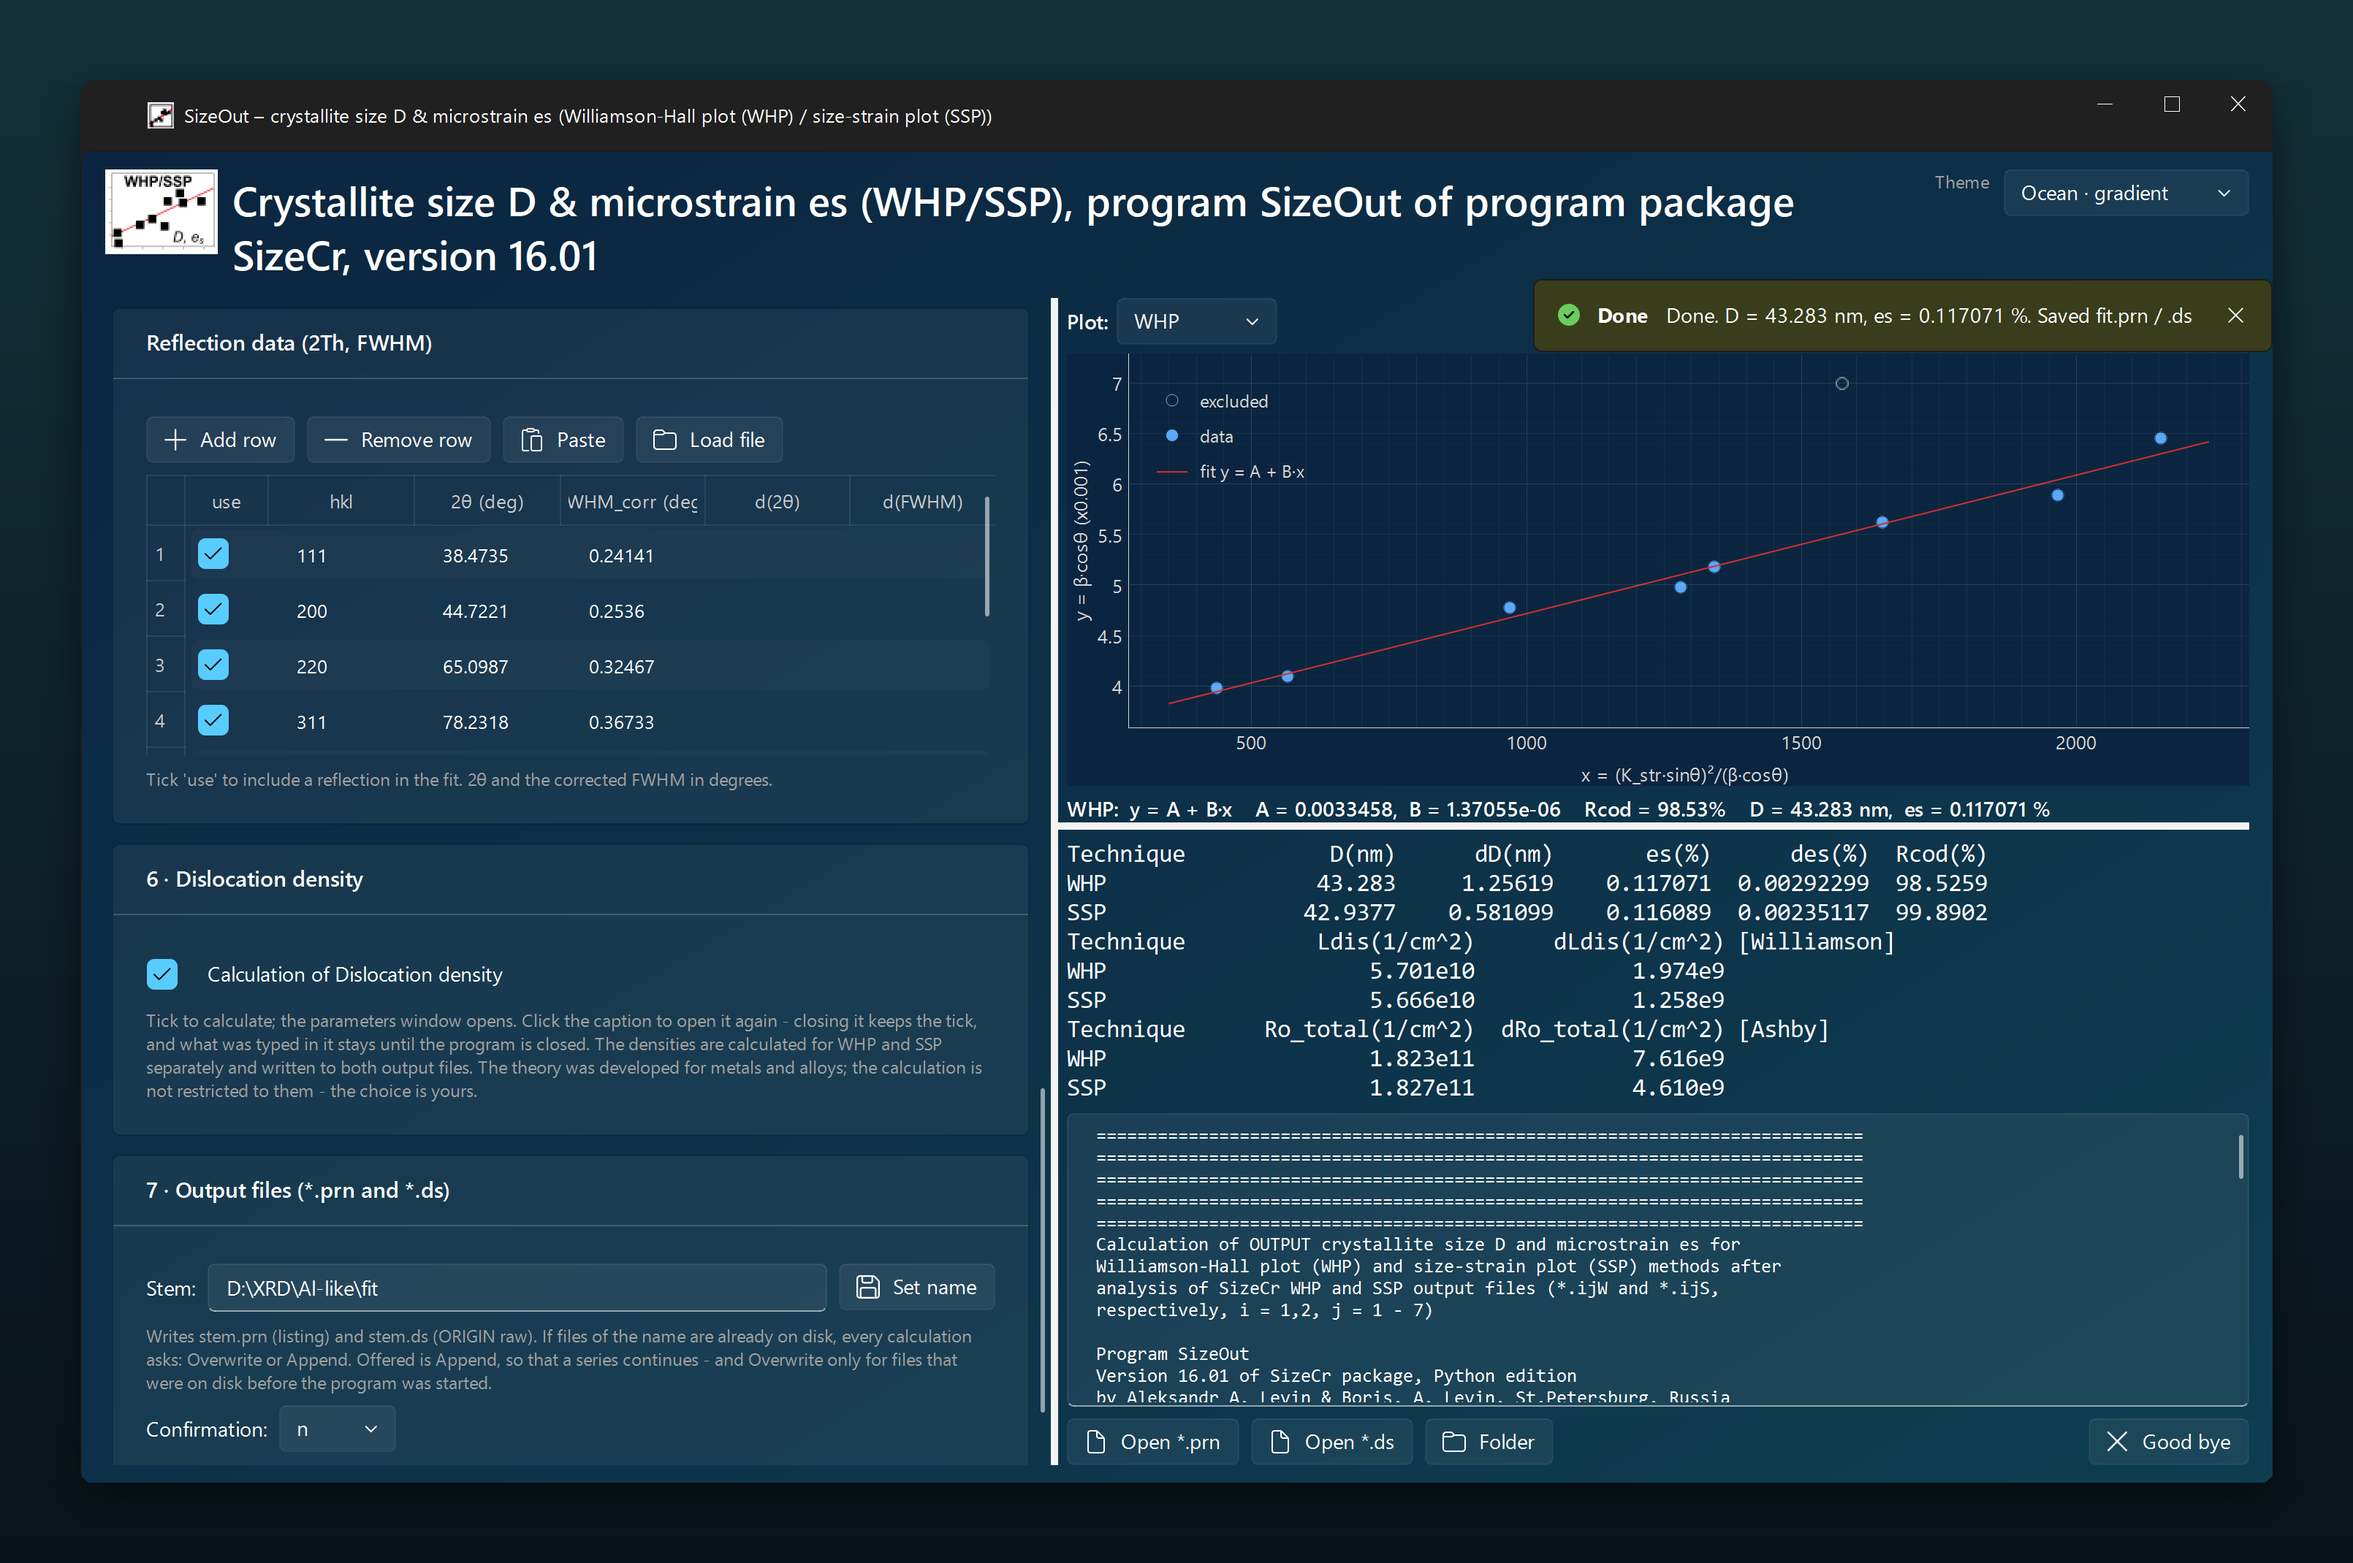
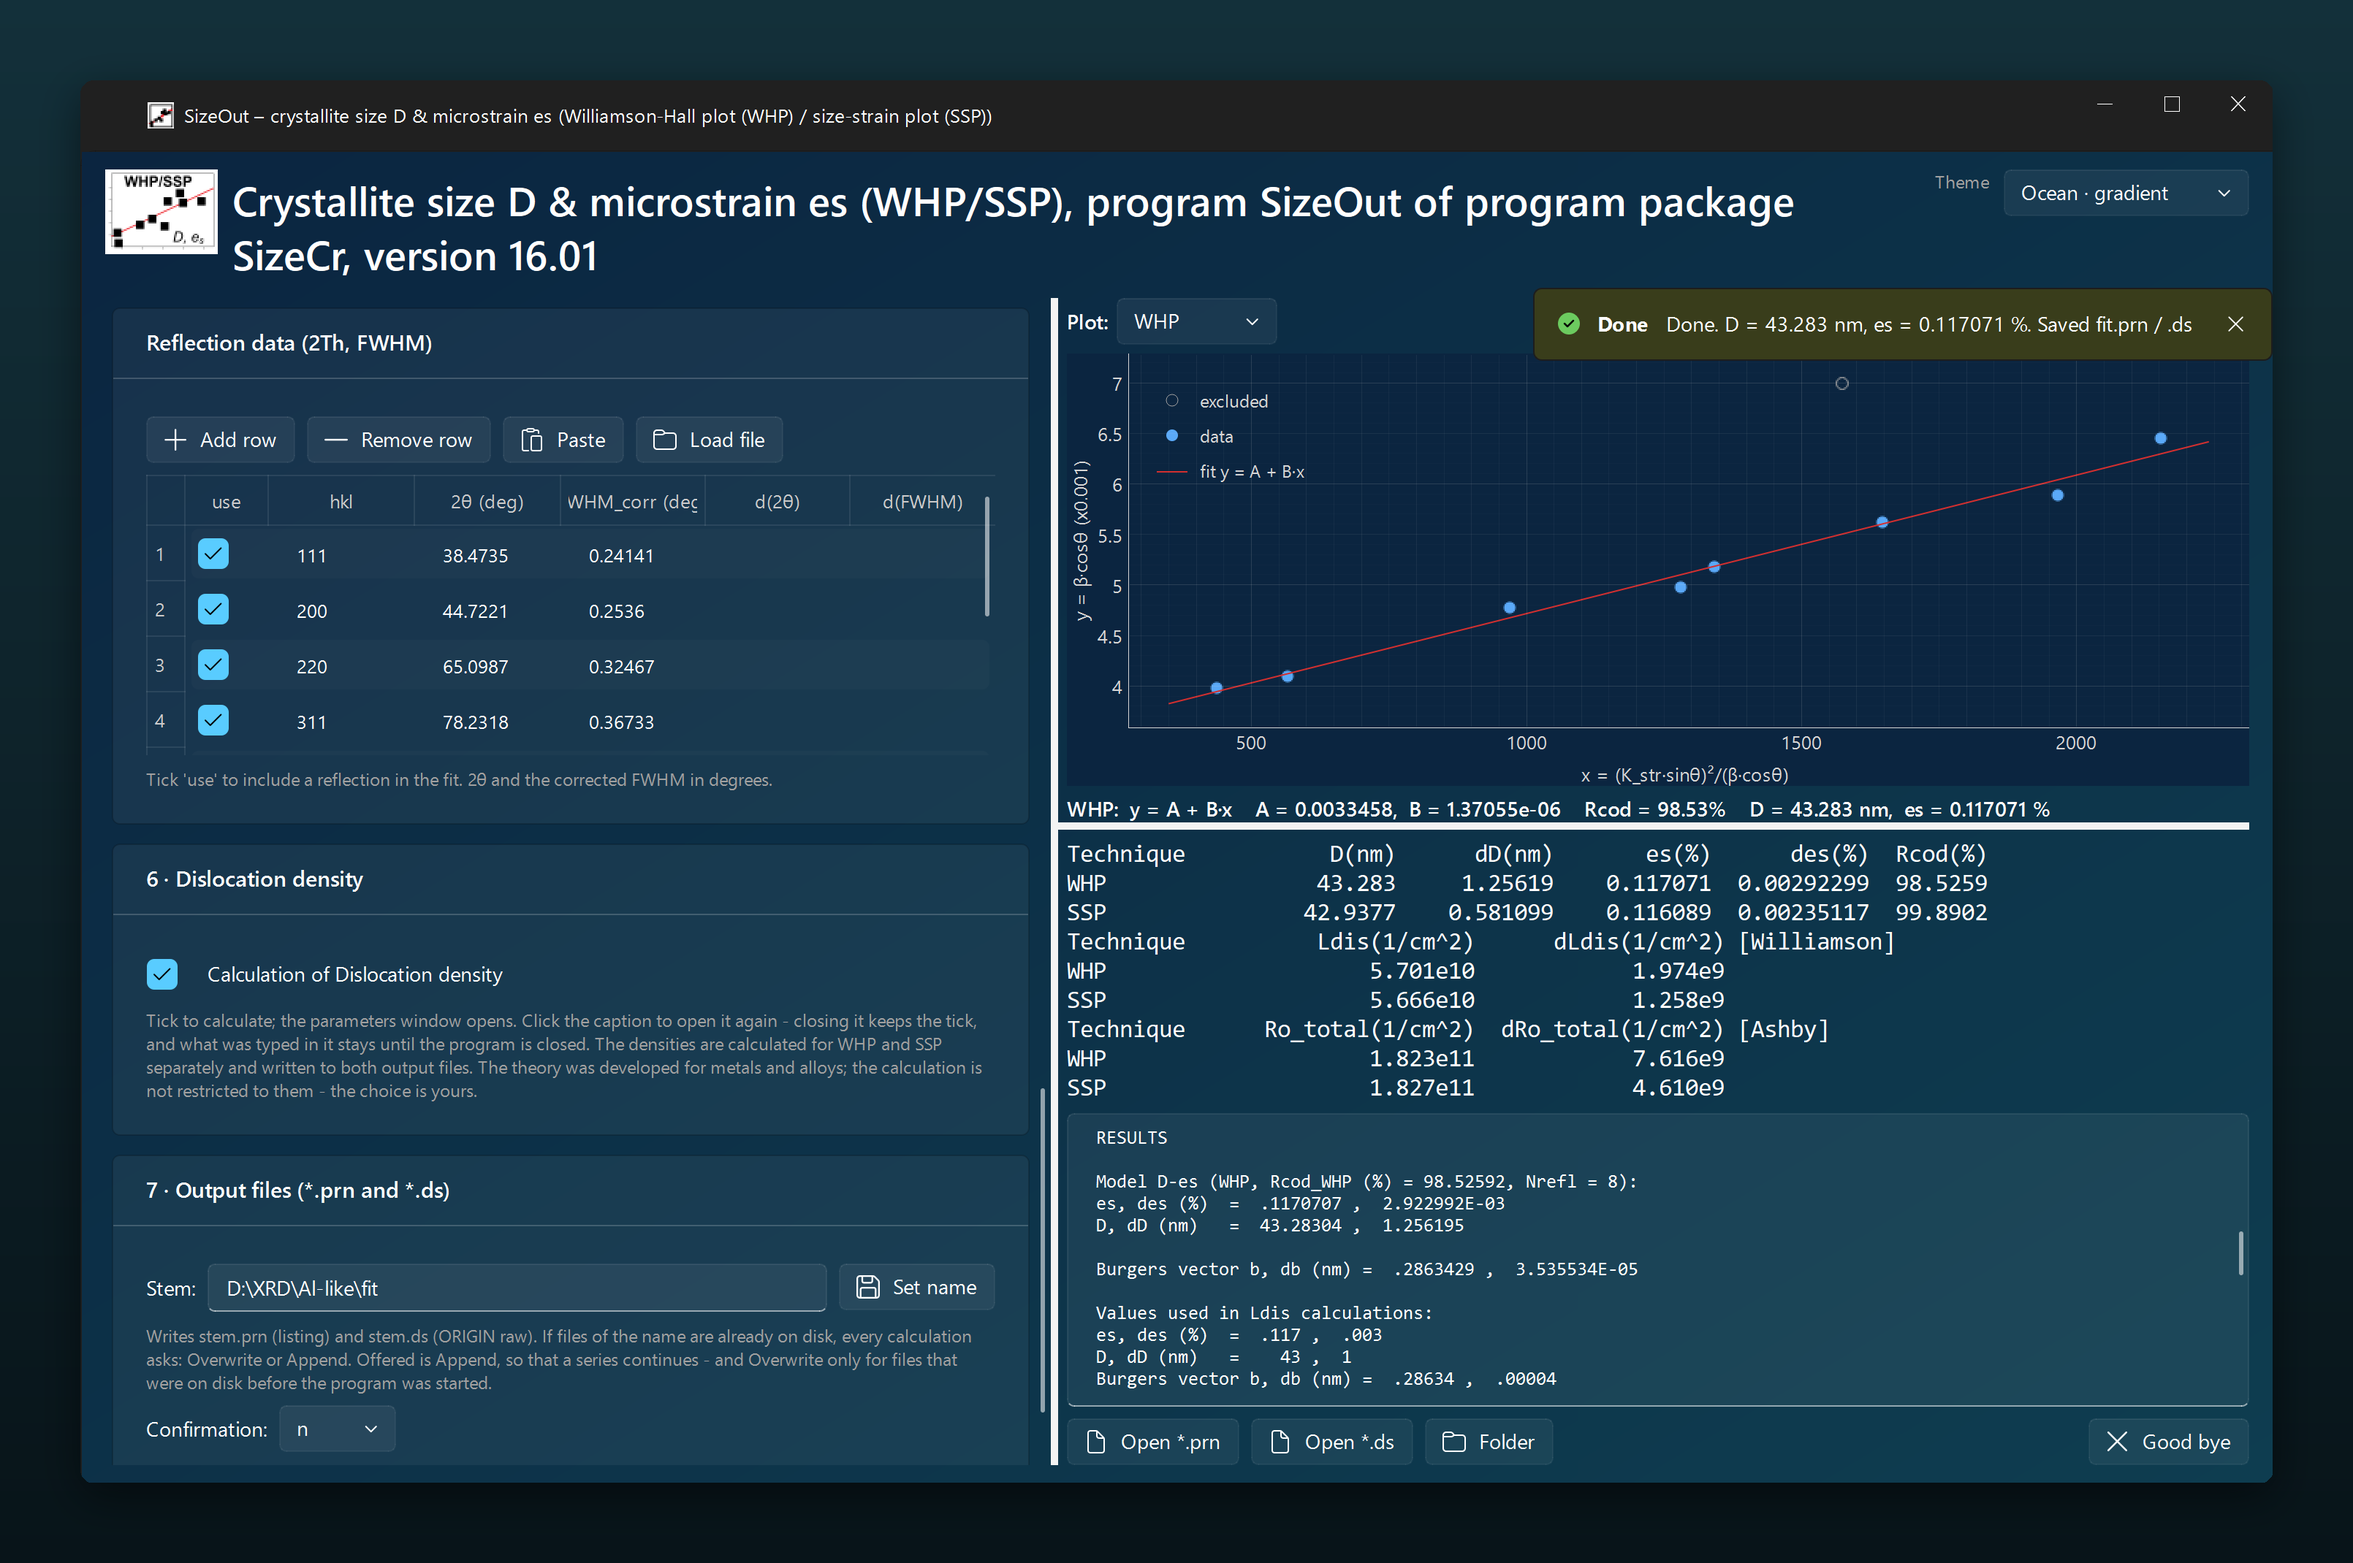
Keep full names out of the README, the citation and the screenshots
The authors are given as @bolevin and A. A. Levin.  The two Ocean screenshots of the full program now show the listing at its results, not at the banner.

Changed region(s): [[0.4658, 0.7093, 0.7764, 0.8944], [0.6522, 0.1542, 0.9627, 0.2467]]

diff --git a/README.md b/README.md
@@ -219,10 +219,8 @@ A. A. Levin, *SizeCr program package*, DOI
 
 ## Authors and licence
 
-**Boris A. Levin** ([@bolevin](https://github.com/bolevin)) - design and implementation of
-this demo.
-**Aleksandr A. Levin** - the method and the original program SizeOut of the SizeCr
-package.
+[@bolevin](https://github.com/bolevin) - design and implementation of this demo.
+**A. A. Levin** - the method and the original program SizeOut of the SizeCr package.
 
 Free software under the [GNU General Public License v3.0 or later](LICENSE); the licences
 of the libraries it uses are in [THIRD-PARTY-NOTICES.md](THIRD-PARTY-NOTICES.md). The
